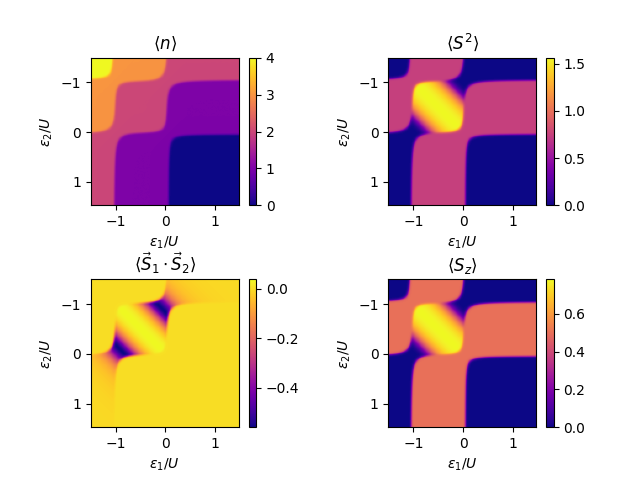
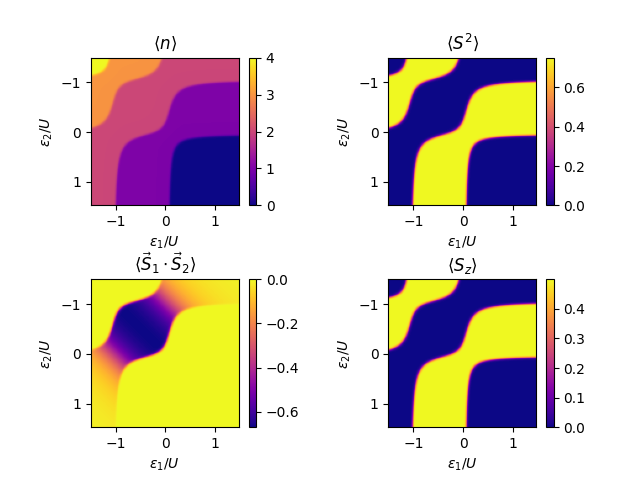
md

diff --git a/Wizualizacja.py b/Wizualizacja.py
@@ -7,7 +7,7 @@ import scipy
 Ham=Hamiltonian(4) 
 
 #definiiowanie parametrów układu
-U,t,B,J=1,0.15,[0,0,0.1],0
+U,t,B,J=1,0.2,[0,0,0.1],-0.04
 Tem=1e-2
 eps1=np.arange(-1.5,1.5,0.025)
 eps2=np.arange(-1.5,1.5,0.025)

diff --git a/README.md b/README.md
@@ -158,7 +158,7 @@ Podsumowując powyższe stwierdzenia, możemy okreslić stan podstawowy układu:
   <img src="https://github.com/JedrekSt/RenormalizacjaWModeluAndersona/blob/main/obrazki/Wykresyt0p2.png?raw=true"/>
 </p>
 
-W przypadku z niezerową wartością całki przeskoku $`t\neq 0`$ granice fazowe ulegają zakrzywieniu. diagramy dla średniej liczby cząstek wyglądają podobnie do tych, otrzymanych dla $`t= 0`$. Jednak największa różnica dostrzegalna jest, dla diagramów średnich spinowych. Po przekroczeniu granicznej wartości $`t`$ w układzie pojawia się sprzężenie antyferromagnetyczne. Cząstki na różnych poziomach ustawiają się z przeciwnym spinem co można zauważyć na diagramie $`\vec{S}_{1}\cdot\vec{S}_{2}`$ oraz $`{S}_{z}`$ gdzie średnia z-towej składowej wynosi 0, dla 2 cząstek.
+W przypadku z niezerową wartością całki przeskoku $`t\neq 0`$ granice fazowe ulegają zakrzywieniu. diagramy dla średniej liczby cząstek wyglądają podobnie do tych, otrzymanych dla $`t= 0`$. Jednak największa różnica dostrzegalna jest, dla diagramów średnich spinowych. Po przekroczeniu granicznej wartości $`t`$ w układzie pojawia się sprzężenie antyferromagnetyczne. Cząstki na różnych poziomach ustawiają się z przeciwnym spinem co można zauważyć na diagramie $`\vec{S}_{1}\cdot\vec{S}_{2}`$ oraz $`{S}_{z}`$ gdzie średnia z-towej składowej wynosi 0, dla 2 cząstek. Za opisaną sytuacje odpowiada człon z całką przeskoku, który wprowadza oddziaływanie między poziomami. 
 
 ### Diagramy ze sprzężeniem ferromagnetycznym
 
@@ -172,7 +172,7 @@ W przypadku z niezerową wartością całki przeskoku $`t\neq 0`$ granice fazowe
   <img src="https://github.com/JedrekSt/RenormalizacjaWModeluAndersona/blob/main/obrazki/Wykresyt0p1J0p04.png?raw=true"/>
 </p>
 
-#### Diagram dla $`T=0.01, U=1, t=0.1, J=-0.05`$
+#### Diagram dla $`T=0.01, U=1, t=0.2, J=-0.04`$
 <p align="center">
   <img src="https://github.com/JedrekSt/RenormalizacjaWModeluAndersona/blob/main/obrazki/Wykresyt0p1J0p05.png?raw=true"/>
 </p>
